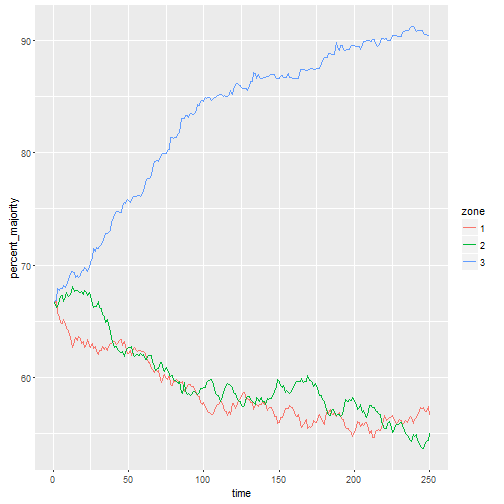
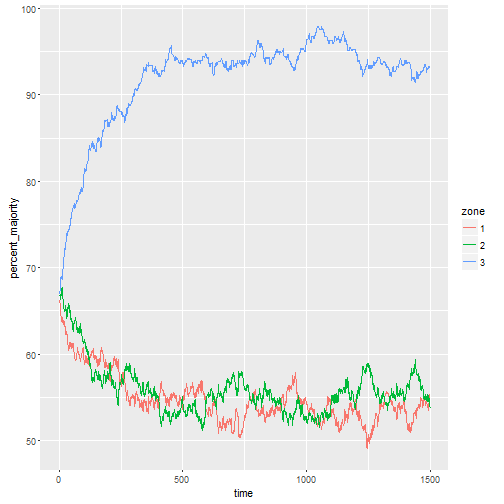
migration again

diff --git a/_posts/2016-01-15-migrationEntropy.md b/_posts/2016-01-15-migrationEntropy.md
@@ -104,7 +104,7 @@ n = 300
 #1 in 100
 p = 0.01
 #iterations
-ites = 250
+ites = 1500
 {% endhighlight %}
 
 As mentioned, there are two **agent types**: two-thirds of agents don't care where they move, if they've decided to move. The other third have a preference. These two preferences are set by giving each agent type its own vector for selecting a zone to move to. 
@@ -239,7 +239,7 @@ table(rbinom(nrow(agents), 1 , agents$newprob))
 {% highlight text %}
 ## 
 ##   0   1 
-## 891   9
+## 890  10
 {% endhighlight %}
 
 But if population is higher in all zones (which it can't be in the model, but just to illustrate). 10 times the current probability of 0.01 is about 1 in 10 deciding to move:
@@ -254,7 +254,7 @@ table(rbinom(nrow(agents), 1 , rep(10 * p,nrow(agents))))
 {% highlight text %}
 ## 
 ##   0   1 
-## 794 106
+## 823  77
 {% endhighlight %}
 
 
@@ -268,7 +268,7 @@ table(rbinom(nrow(agents), 1 , rep(10 * p,nrow(agents))))
 {% highlight text %}
 ## 
 ##   0   1 
-## 820  80
+## 808  92
 {% endhighlight %}
 
 
@@ -282,10 +282,24 @@ table(rbinom(nrow(agents), 1 , rep(10 * p,nrow(agents))))
 {% highlight text %}
 ## 
 ##   0   1 
-## 798 102
+## 821  79
 {% endhighlight %}
 
 And if lower in all zones, agents are more likely to stay put:
+
+
+{% highlight r %}
+table(rbinom(nrow(agents), 1 , rep(0.1 * p,nrow(agents))))
+{% endhighlight %}
+
+
+
+{% highlight text %}
+## 
+##   0 
+## 900
+{% endhighlight %}
+
 
 
 {% highlight r %}
@@ -314,20 +328,6 @@ table(rbinom(nrow(agents), 1 , rep(0.1 * p,nrow(agents))))
 ## 900
 {% endhighlight %}
 
-
-
-{% highlight r %}
-table(rbinom(nrow(agents), 1 , rep(0.1 * p,nrow(agents))))
-{% endhighlight %}
-
-
-
-{% highlight text %}
-## 
-##   0   1 
-## 897   3
-{% endhighlight %}
-
 For those who **are** moving, in this next step, they decide where to go. The fiddly part here are the two selections from the 'even' and 'bias' vectors that tell agents which zone they're moving to. To explain it as much for my own later sanity as anything, here's what's going on. We're just selecting a random index from each of them. In the case of 'even', 1,2 and 3 have the same chance of being chosen (as can be seen if we whack the number of random selections right up). Whereas 'bias' ends up telling about a tenth the number of biased agents to move to #3:
 
 
@@ -340,7 +340,7 @@ table(even[floor(runif(n = 1000000, min=1, max=length(even)+1))])
 {% highlight text %}
 ## 
 ##      1      2      3 
-## 333550 332801 333649
+## 333104 333977 332919
 {% endhighlight %}
 
 
@@ -354,7 +354,7 @@ table(bias[floor(runif(n = 1000000, min=1, max=length(bias)+1))])
 {% highlight text %}
 ## 
 ##      1      2      3 
-## 475716 476704  47580
+## 474987 477446  47567
 {% endhighlight %}
 
 In the zone selection itself, each random selection is the same length as agents of that type. As the comments note, I'm a little amazed this works - I'm not really clear on how that random vector can be created and then, via an ifelse, be assigned to the correct index... oh well, it works!
